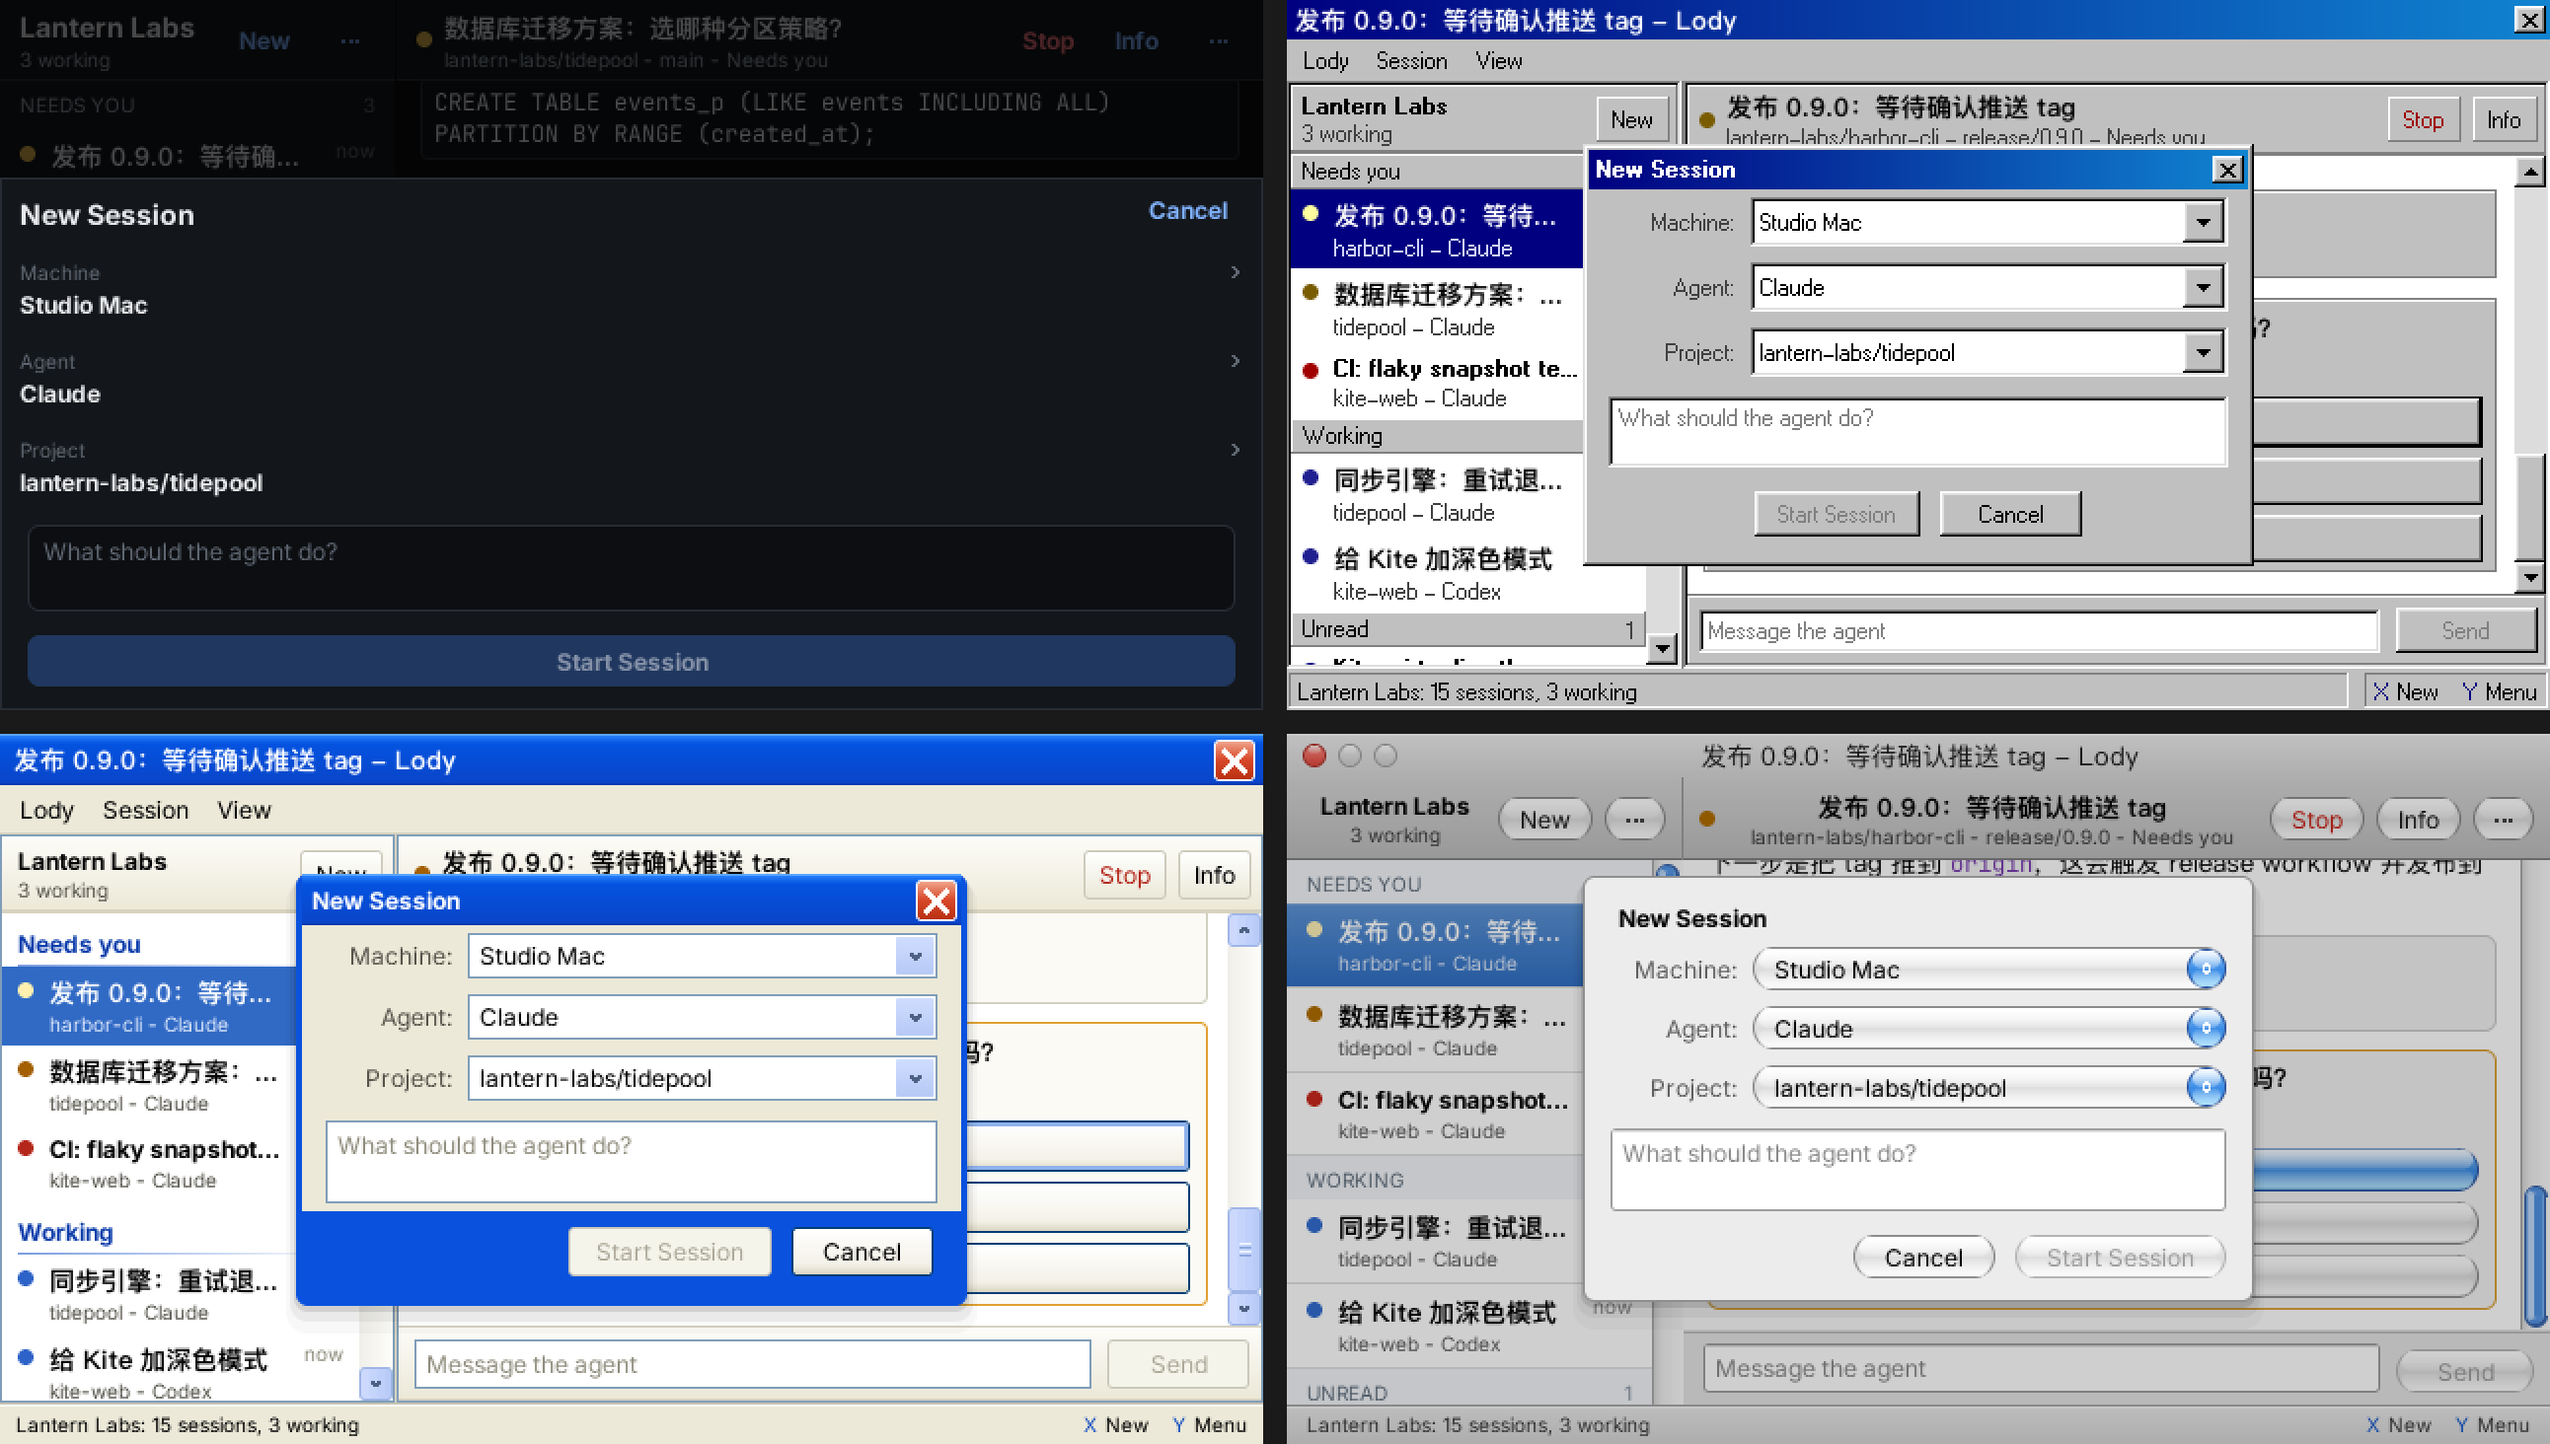
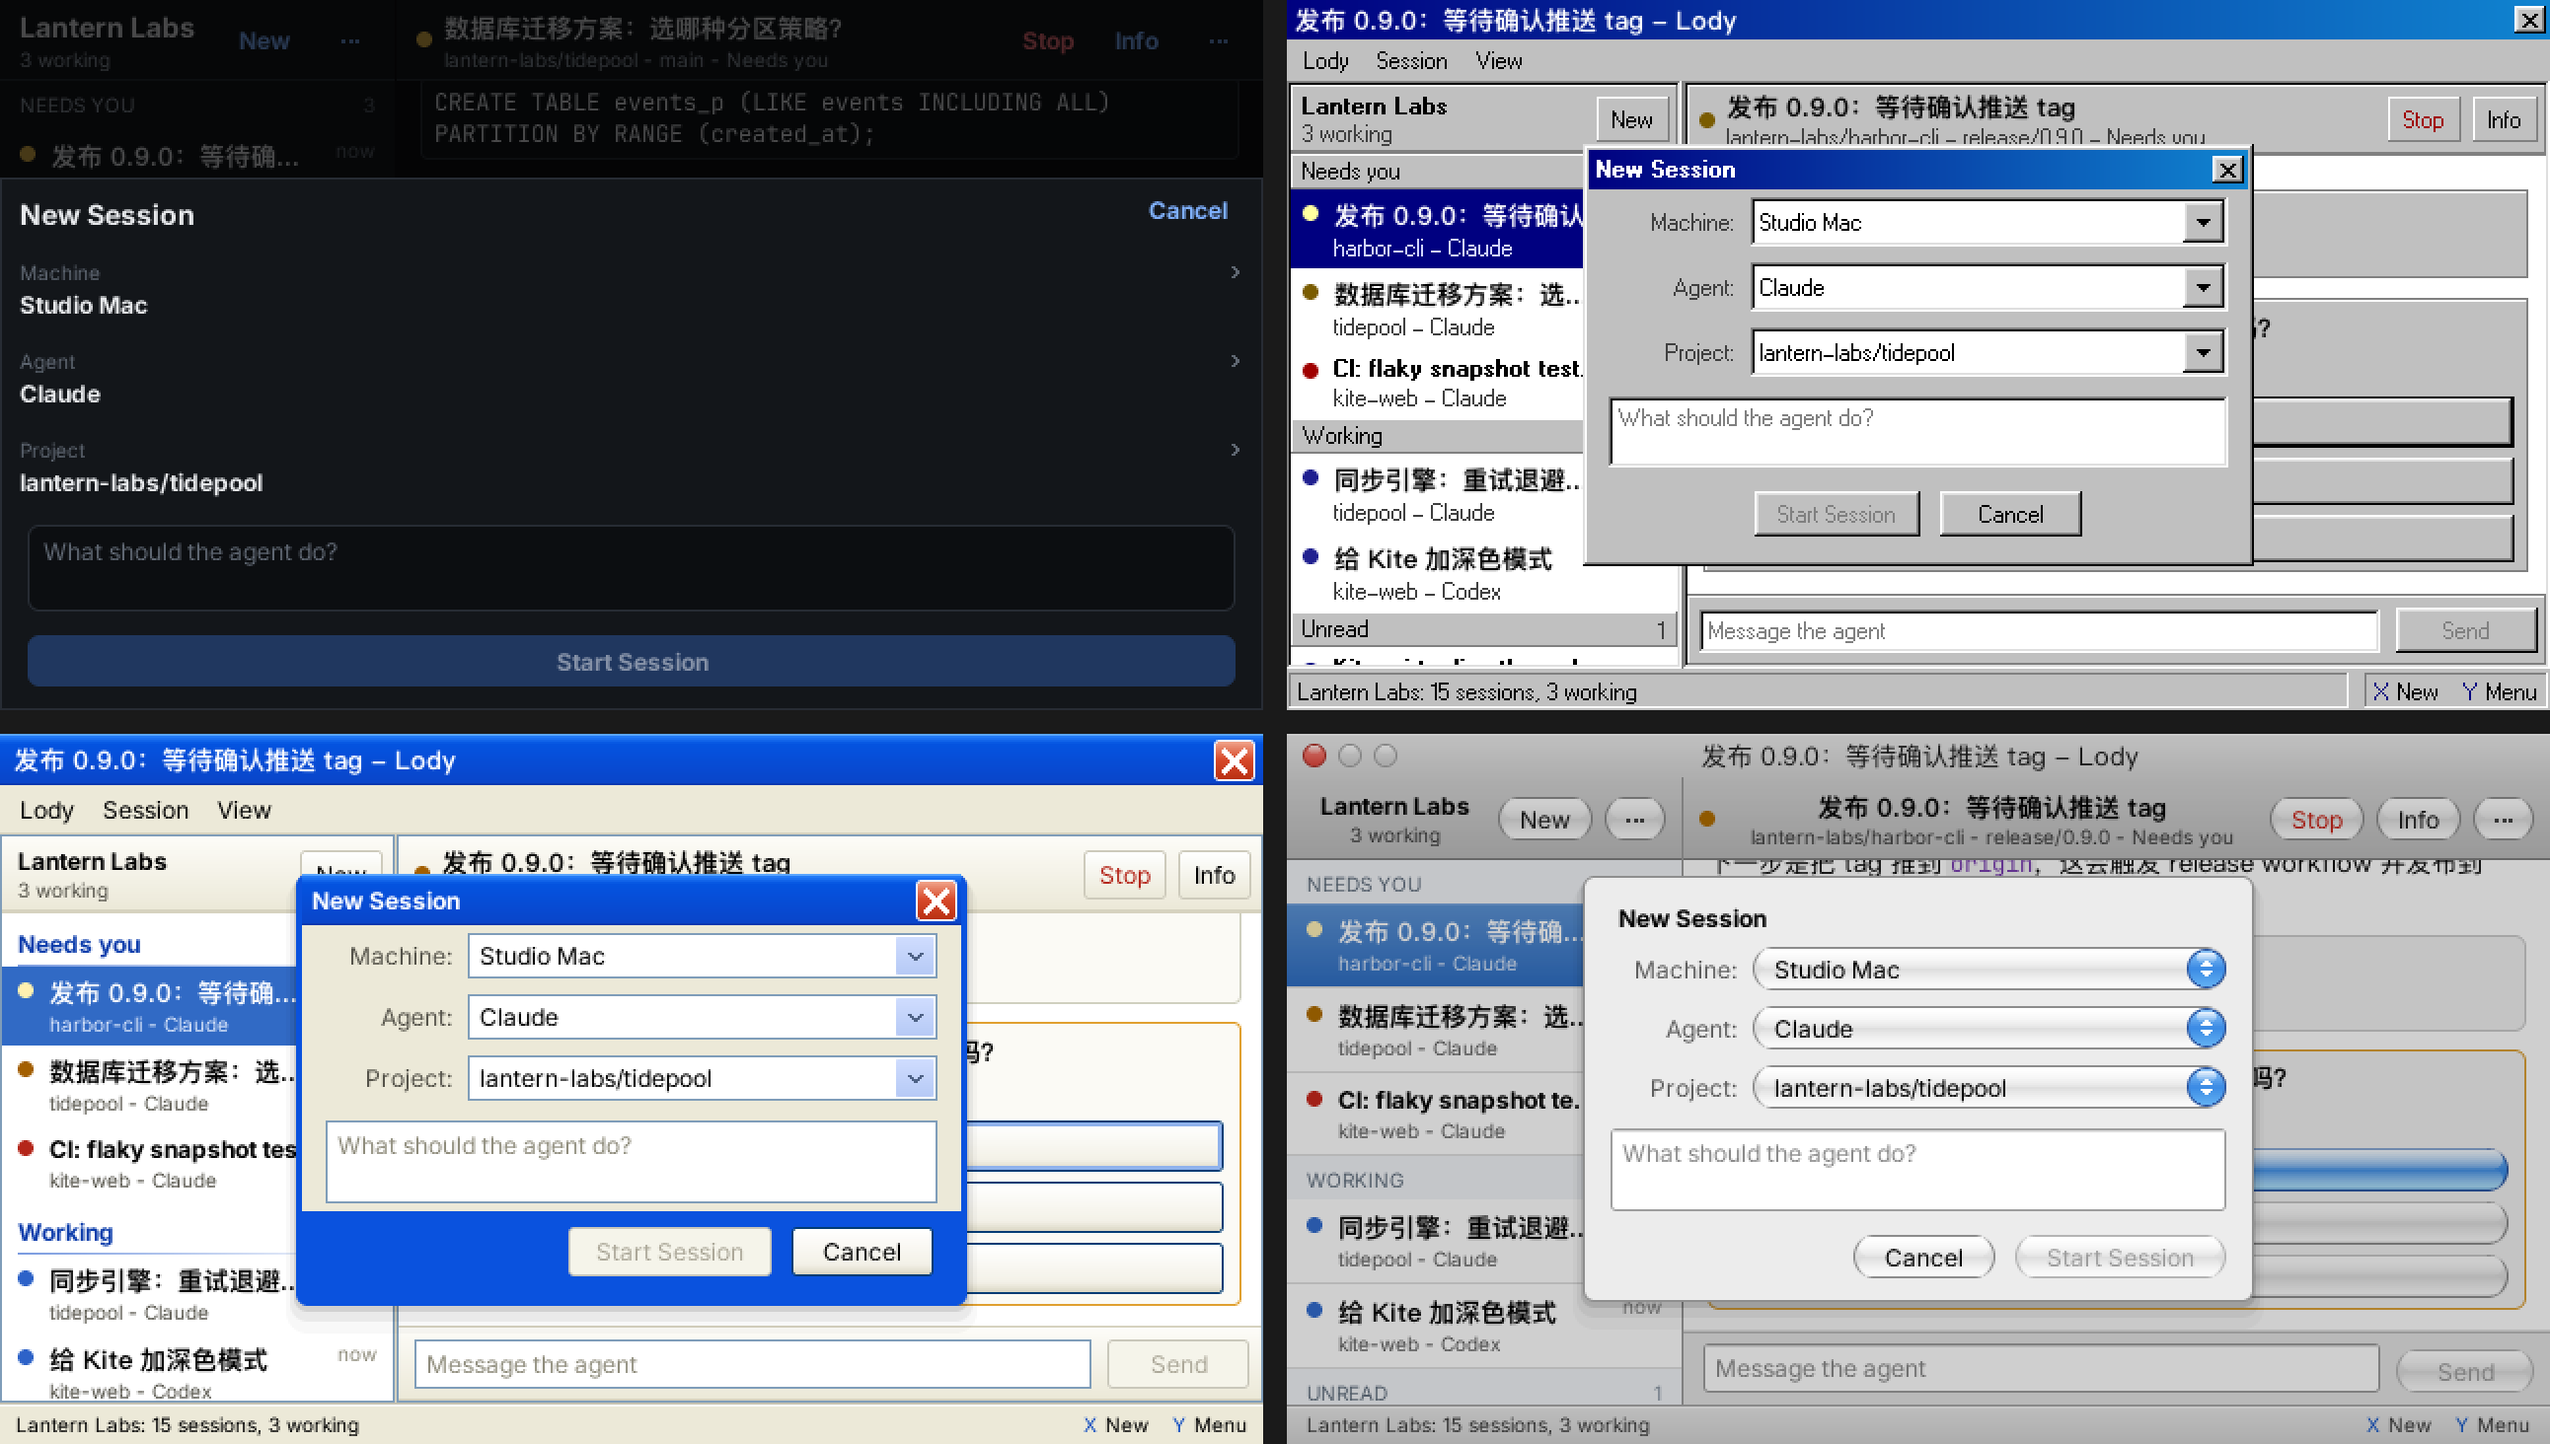
feat: the applet asks for the pointer; PocketUI with hover, overlay scroll bars and the inspector panel
`pointer` among applet.services asks the host to say where its pointer
rests over the window (Omarchy Pocket's shell sends it as PocketUI's
hover contact). The pictures and the theme table follow the reworked
themes.

diff --git a/README.md b/README.md
@@ -19,9 +19,12 @@ The application names no colour, border or font. It says what things are (a bar,
 | New, Stop, Info | controls in the pane's bar | bar buttons, and the Lody / Session / View menus | the same | toolbar capsules, the rest behind "more" |
 | The title bar's close control | none | closes the open session; disabled when none is open | the same | the red light; the other two lights are drawn disabled |
 | New Session | a sheet from the bottom edge: three rows that open lists, Cancel beside the heading, Start as a wide button | a window with a title bar: three combo boxes, Start and Cancel centred at the foot | the same, the buttons trailing | a window with a heading: three popups, Cancel then Start at the foot |
-| The transcript's scroll bar | a thumb while it moves | a strip with arrows | a strip with arrows and ridges | a strip with a blue capsule |
+| Session Info, beside the transcript | a panel under the bars | a tool window with a close box | a blue-edged panel with a red close box | a grey panel with a red light |
+| The pointer resting on a menu row | a tint | navy | blue | blue |
 
 <p align="center"><img src="docs/pocket-lody-form.webp" width="840" alt="The New Session form in the four themes, from one source: rows and a wide Start button in Pocket; combo boxes and centred buttons in Classic 98; combo boxes and trailing buttons in XP; popups with blue caps and Cancel before Start in Aqua"></p>
+
+The manifest lists `pointer` among the applet's services: Omarchy Pocket's shell then tells the window where the stage pointer rests over it, and what is under it shows so (a menu's row, a toolbar control).
 
 `app/create.tsx` is that form: three `Picker`s, a field, and `actions`. `app/semantic.test.ts` fails if a view names a colour, an edge, a radius or a theme.
 
